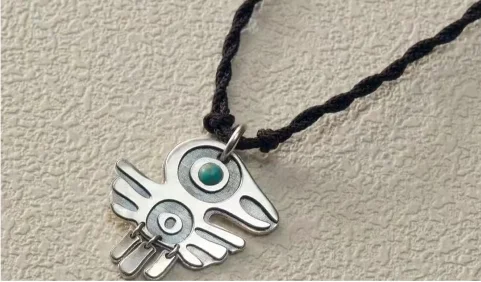
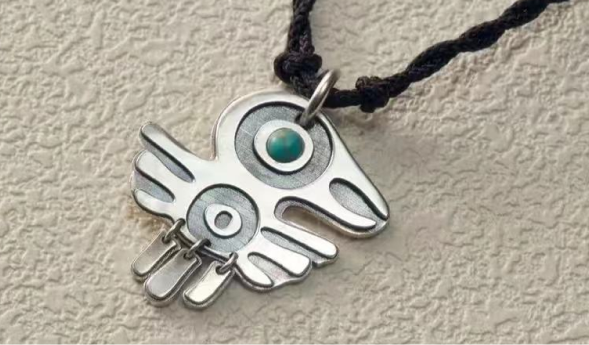
图片比例调整

diff --git a/styles.css b/styles.css
@@ -406,7 +406,7 @@ img {
 .hot-grid img {
   grid-column: span 6;
   width: 100%;
-  height: 224px;
+  height: 260px;
   object-fit: cover;
 }
 .hot-grid img:nth-child(1) {